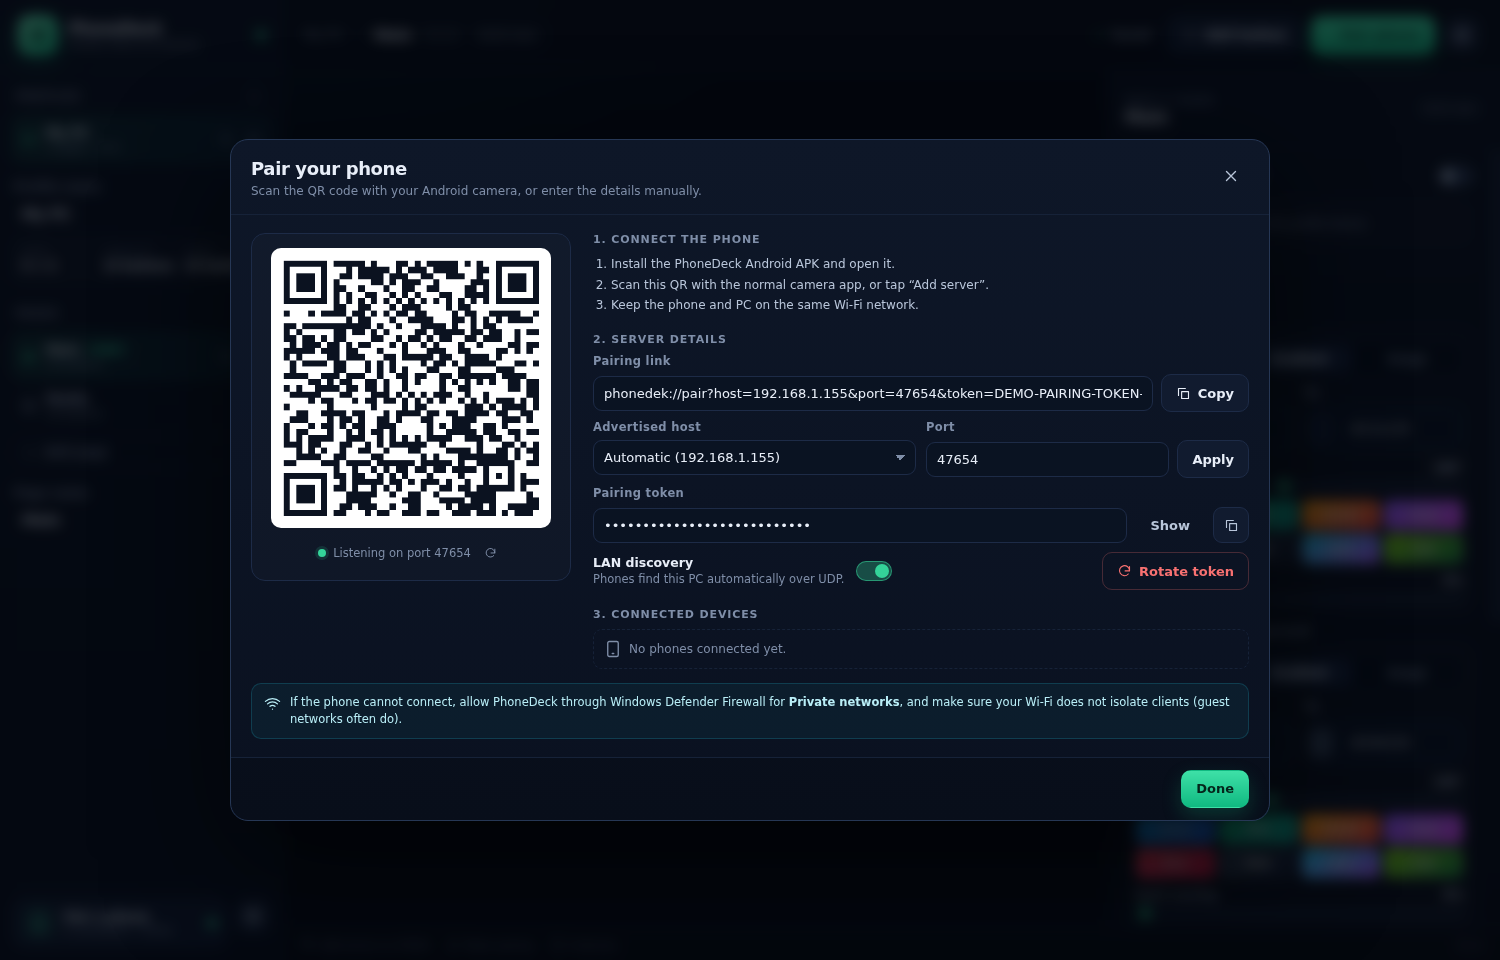
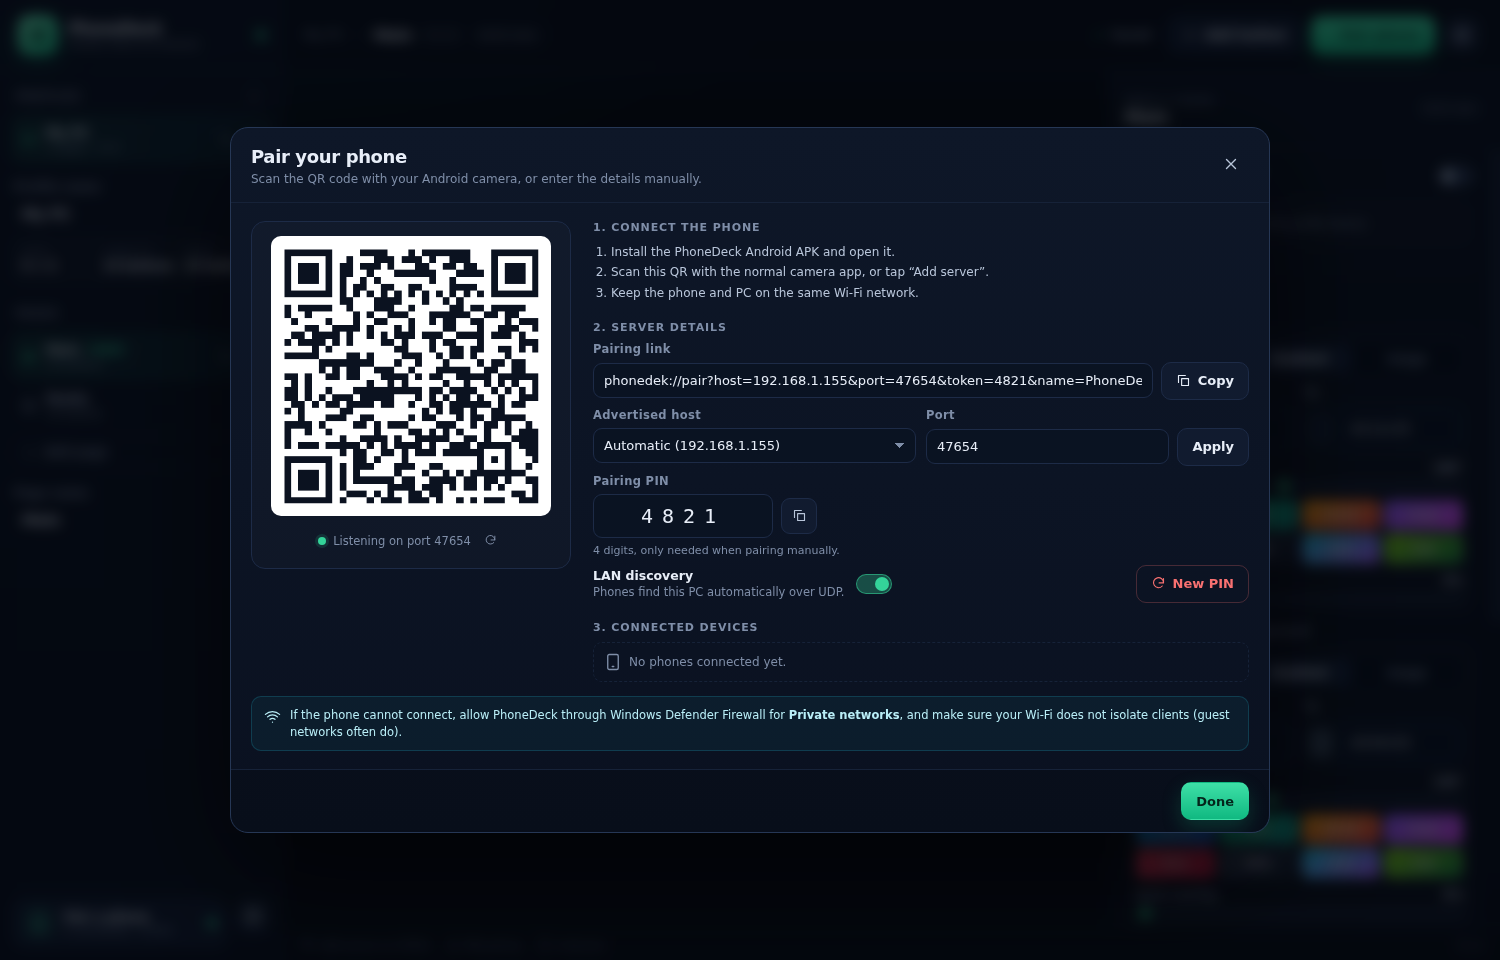
Refresh 0.1.2 screenshots and document pinup diagnostics

diff --git a/.agent/STATE.md b/.agent/STATE.md
@@ -12,12 +12,18 @@
   `resources/keyboard-helper.ps1`, app.asar has ws/zod/qrcode.
 - Android APK verified: 11 MB, debug-signed (v2), package `com.phonedek.app`, deep link
   `phonedek://pair`, minSdk 26/target 34.
-- Release v0.1.1 published: https://github.com/Pelozo/phonedek/releases/tag/v0.1.1
-  (installer 122,061,144 B, debug APK 11,291,469 B, SHA256SUMS). v0.1.0 was deleted
-  because its Android WebSocket inherited the 15s HTTP read timeout.
-- Latest code commit: 928f2dc "Use a stable debug signing key"; CI run 42317604545 green.
+- Release v0.1.2 published: https://github.com/Pelozo/phonedek/releases/tag/v0.1.2
+  (installer 122,061,631 B, debug APK 11,307,853 B, SHA256SUMS).
+- Root cause of “server address is not valid”: OkHttp HttpUrl only accepts http/https,
+  Android built the WS URL with scheme=ws and always threw. Fixed in 941f665 by using
+  http:// for the WebSocket handshake; regression test in DeckConnectionUrlTest.
+- Latest code commit: 941f665 "Fix Android WebSocket URL scheme and add pairing diagnostics";
+  CI run 42319780727 green (desktop tests/build/installer + Android unit tests/build/lint).
 - v0.1.1 adds: advertised-host selector, ZIP backups with assets, Android socket timeout
   fix, Android unit tests in CI, Android v0.1.1/versionCode 2, monochrome icon.
+- v0.1.2 adds: 4-digit pairing PIN with 6/min rate-limit block, in-app diagnostics
+  (Settings and pairing screen, Copy), logs to `adb logcat -s PhoneDeck`, stale pairing
+  validation, Android URL-scheme fix, versionCode 3.
 - Stable APK signing: committed `apps/android/debug.keystore` (standard debug creds) so
   future CI APKs update in place. New v0.1.1 assets were re-uploaded with this key:
   APK SHA-256 e125c521…3610df, cert SHA-256 db0345e3…c83fc; installer SHA-256
@@ -27,8 +33,8 @@
 - Android subagent session `ses_e4cf99e72ffen0aq1xsuJgWb94`: its files are in the repo and
   CI-green; local arm64 Gradle still runs/fails on x86_64 aapt2 (CI x64 is authoritative).
   If it reports edits after 20:35, review and re-run CI.
-- Next action: user manual test of v0.1.1 using docs/TESTING.md; collect feedback and fix issues.
-  Release and docs are final; no pending code changes.
+- Next action: user re-tests pairing with v0.1.2 and shares Diagnostics/logcat if needed.
+  Optional backlog: tray/minimize-to-tray, Android page swipe, global macro hook, signing.
 - Optional backlog: signed release APK, Windows code signing, global macro recording hook,
   tray/minimize-to-tray, page swipe on Android, refresh screenshots to 0.1.1 footer.
 - Release notes draft:
